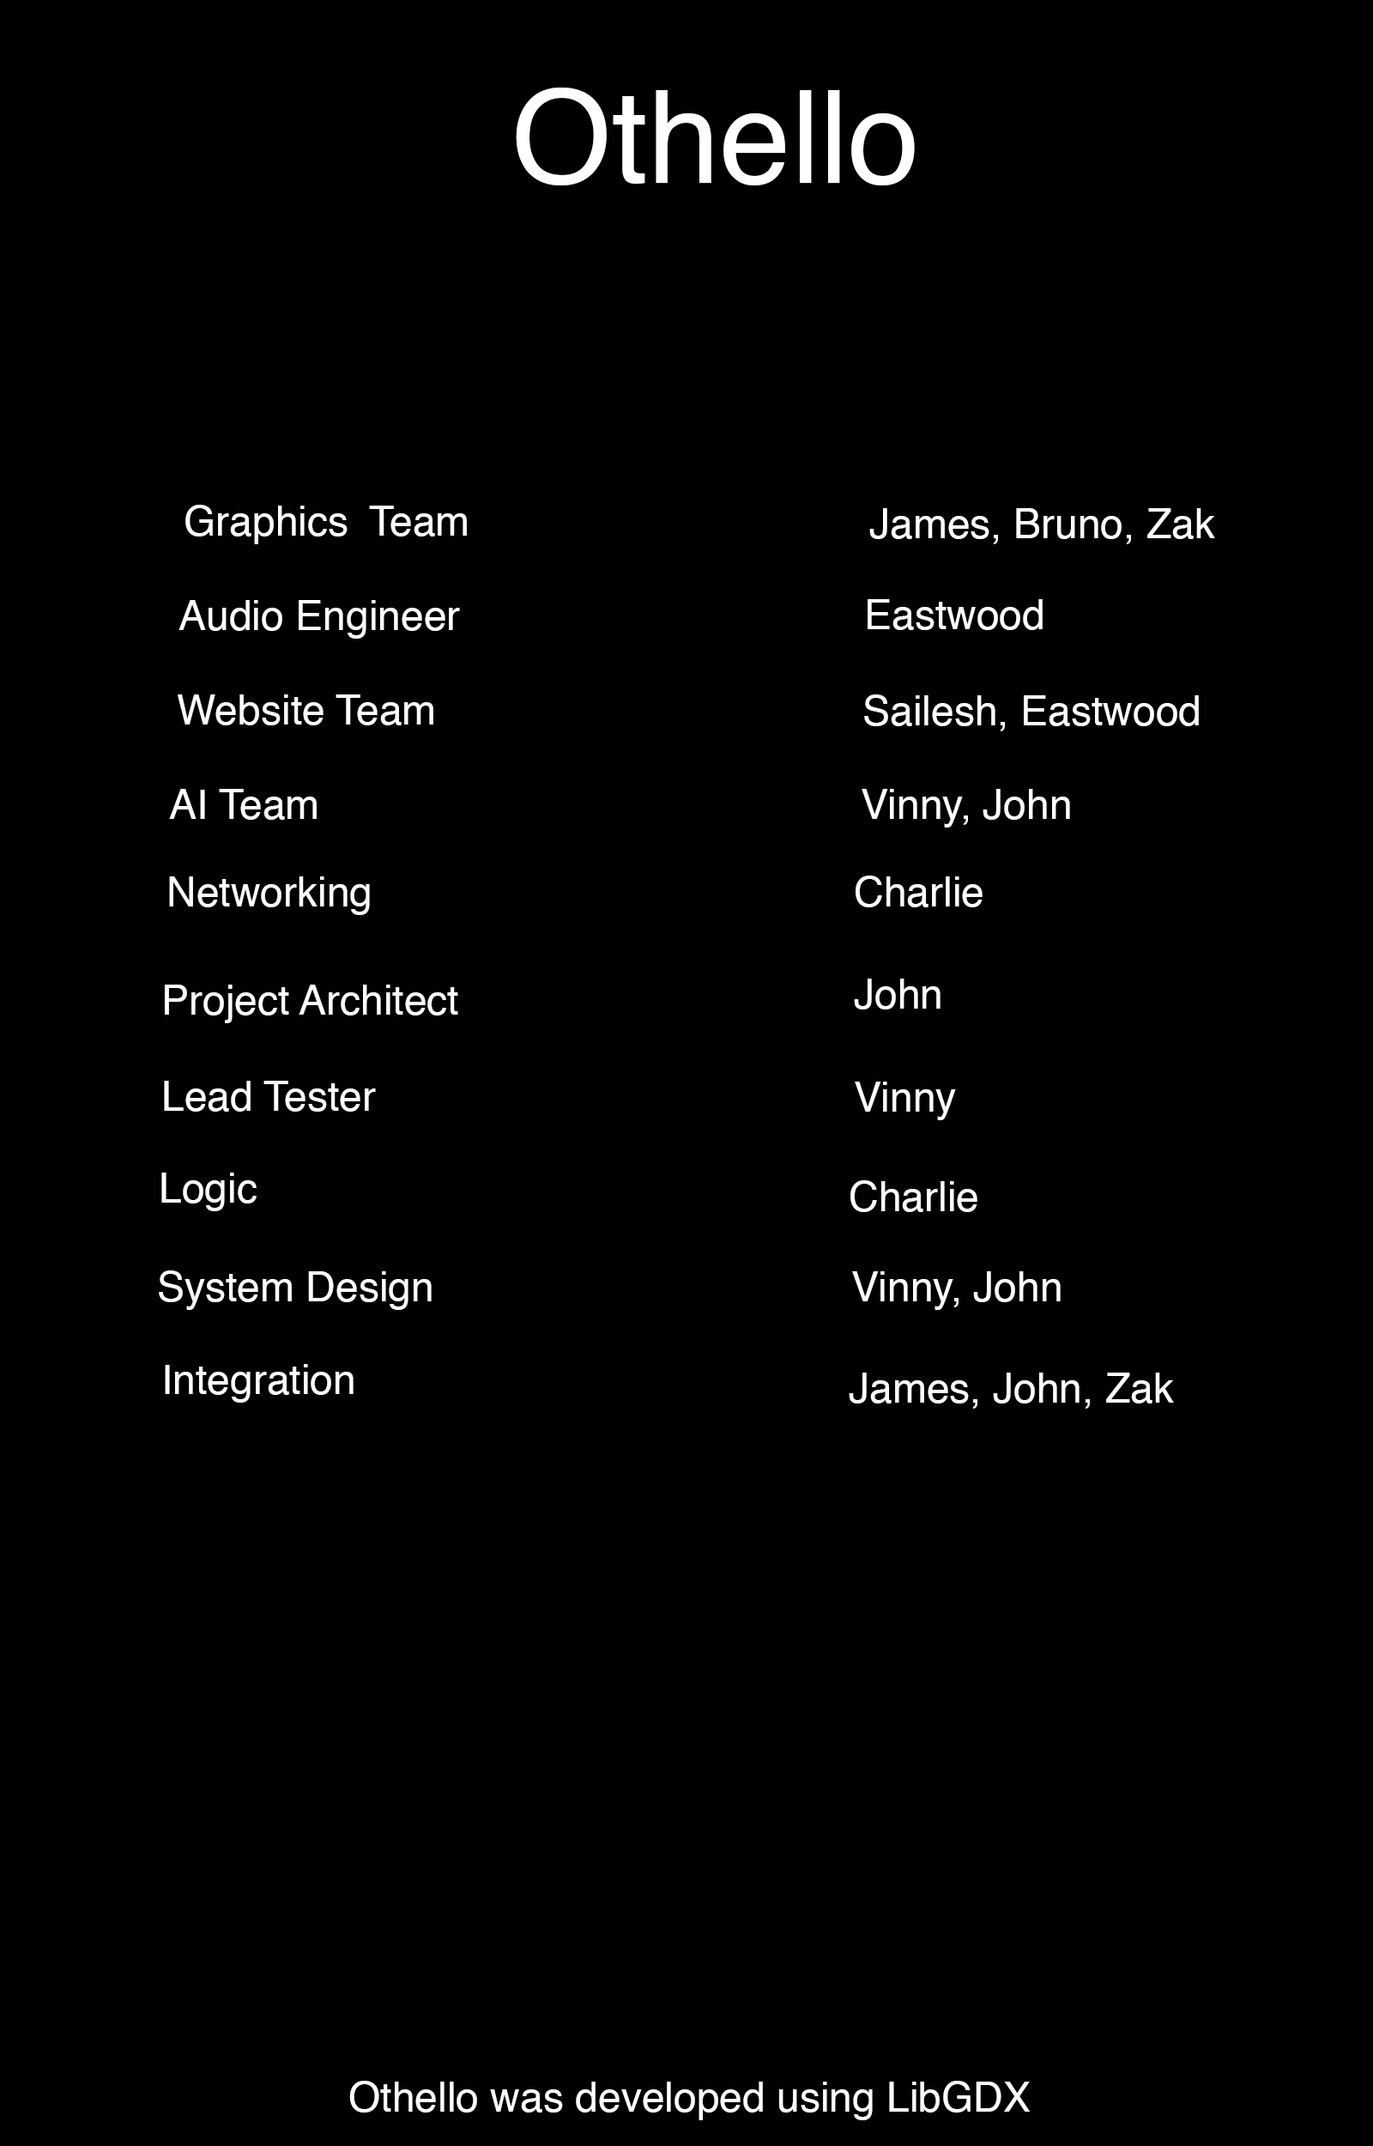
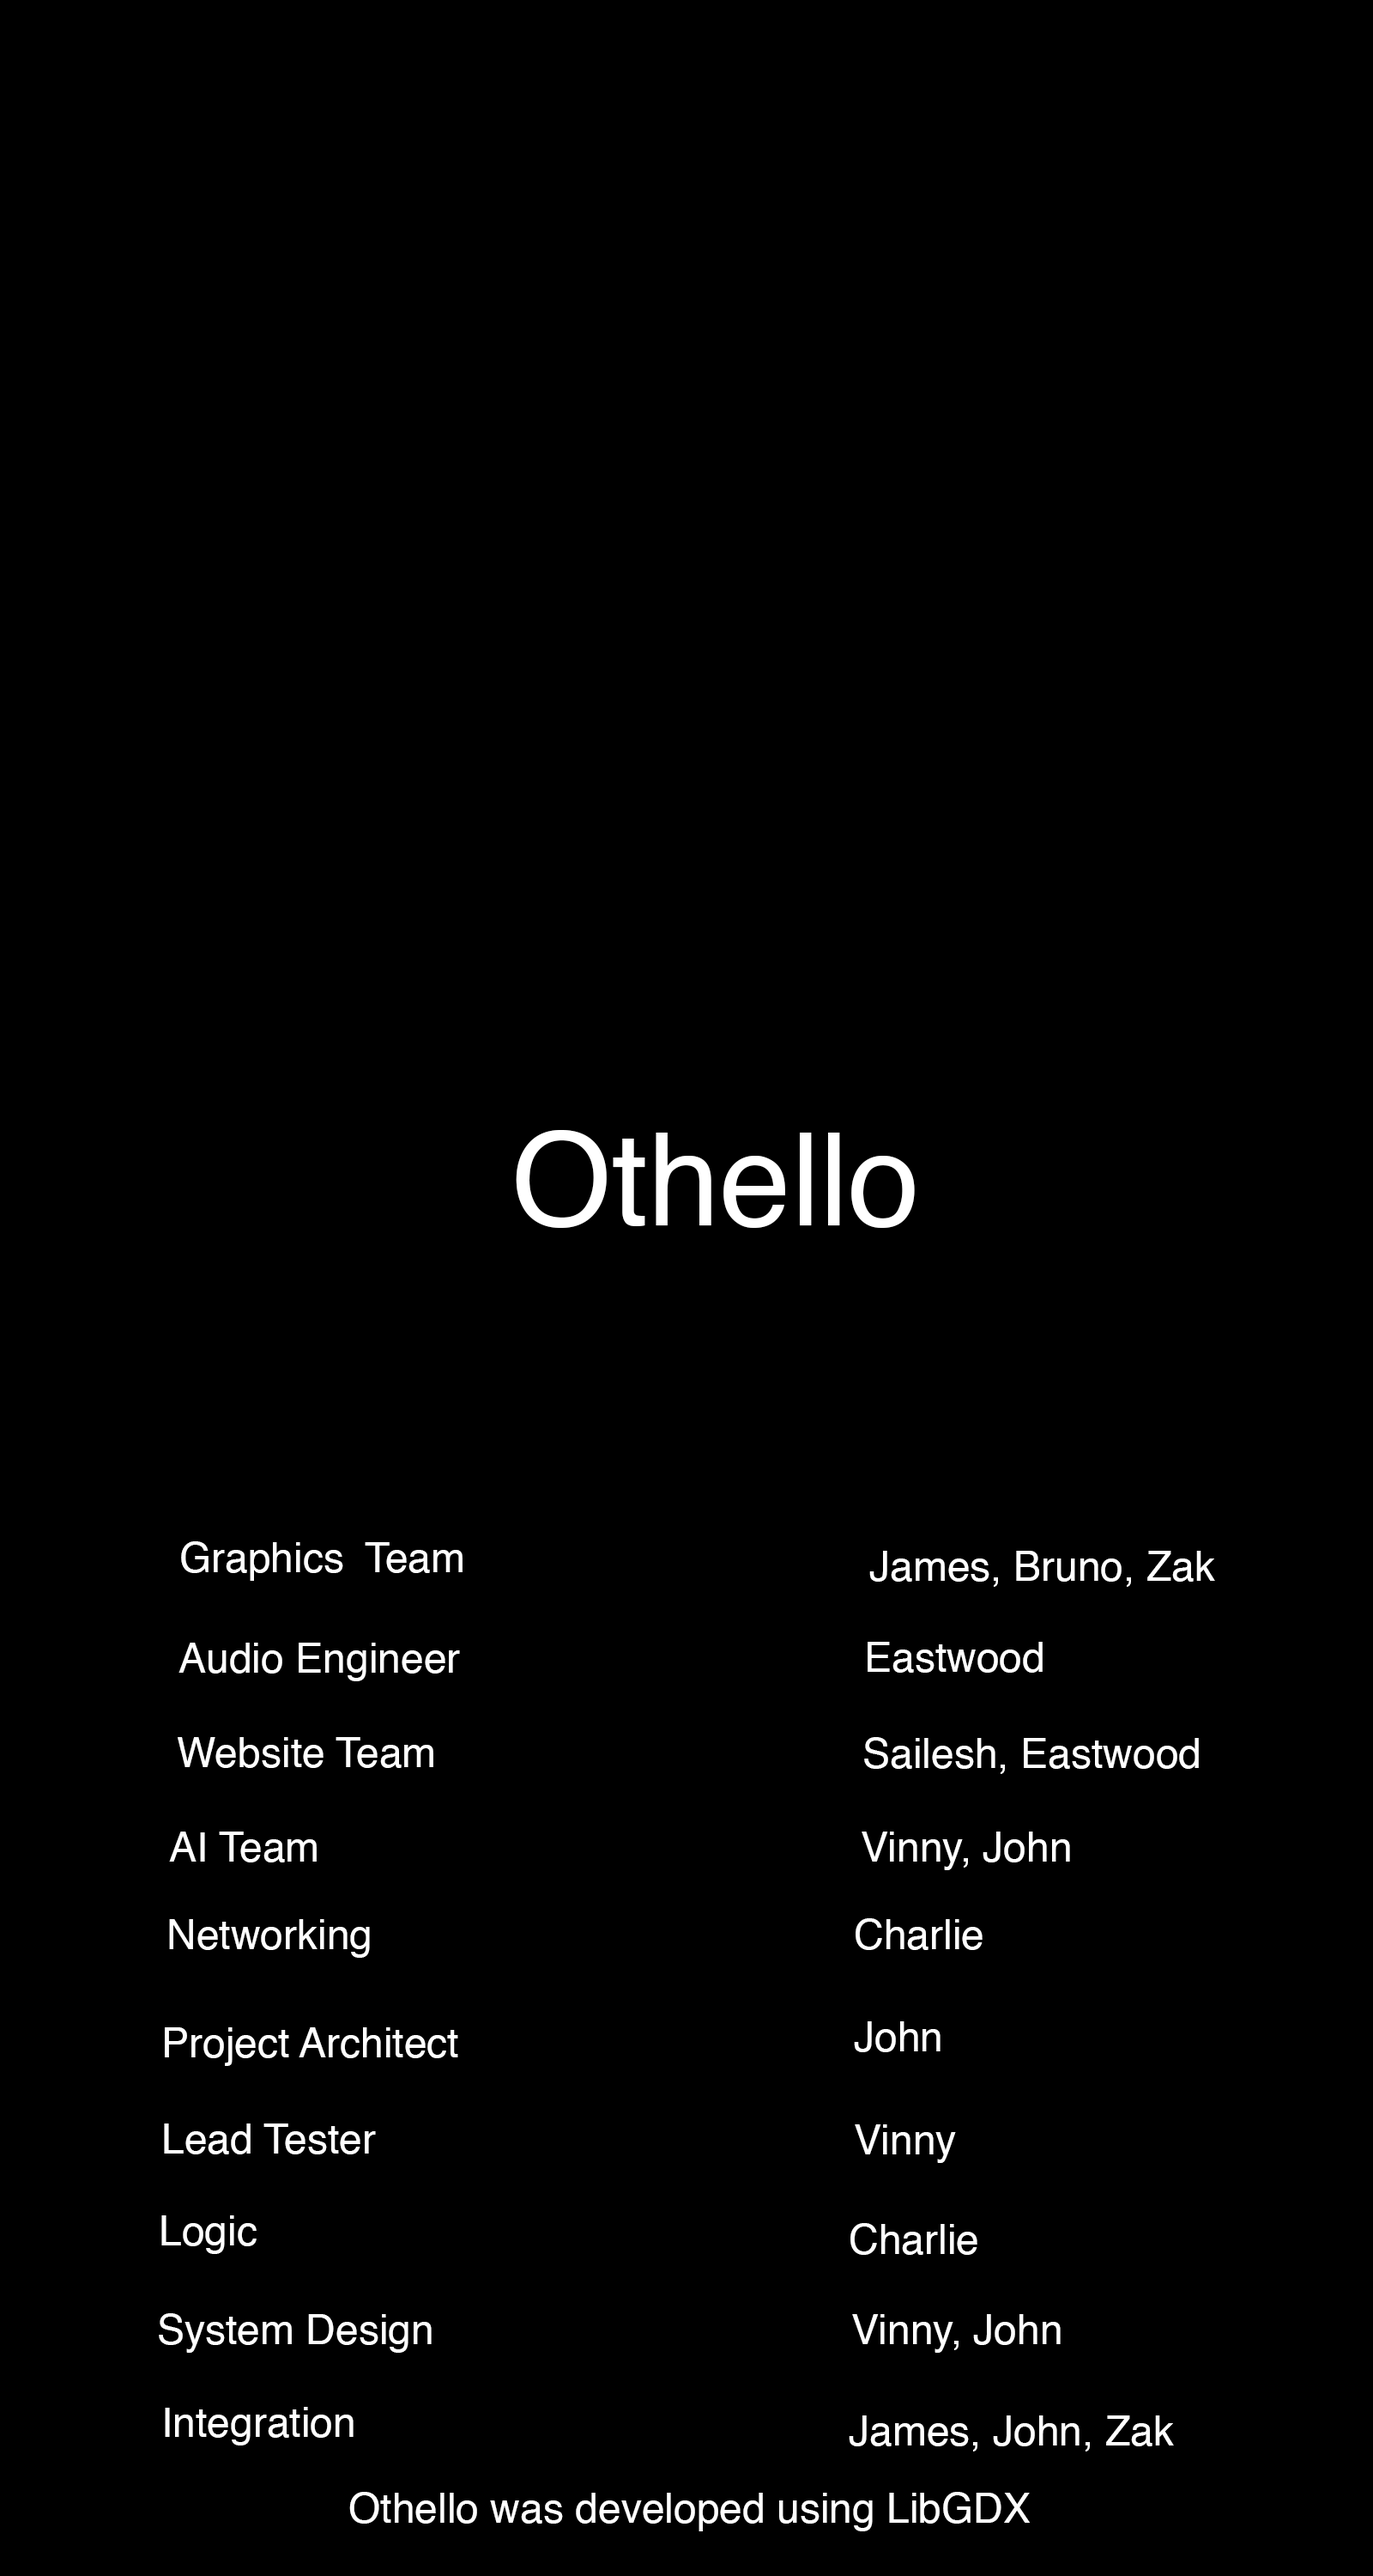
credits screen fixed

diff --git a/core/src/com/othellog4/screens/OptionScreen.java b/core/src/com/othellog4/screens/OptionScreen.java
@@ -7,6 +7,7 @@ import com.badlogic.gdx.graphics.Texture.TextureFilter;
 import com.badlogic.gdx.graphics.g2d.BitmapFont;
 import com.badlogic.gdx.graphics.g2d.freetype.FreeTypeFontGenerator;
 import com.badlogic.gdx.graphics.g2d.freetype.FreeTypeFontGenerator.FreeTypeFontParameter;
+import com.badlogic.gdx.graphics.glutils.ShapeRenderer.ShapeType;
 import com.badlogic.gdx.math.Vector2;
 import com.badlogic.gdx.utils.Align;
 import com.othellog4.Othello;
@@ -123,6 +124,10 @@ public class OptionScreen extends BaseScreen {
 		if (mousePos.x > 1420 && mousePos.x < 1580 && mousePos.y > 10
 				&& mousePos.y <48) {
 			if (Gdx.input.justTouched()) {
+				BaseScreen.SHAPE_RENDER.begin(ShapeType.Filled);
+				BaseScreen.SHAPE_RENDER.setColor(0f, 0f,0f, 1);
+				BaseScreen.SHAPE_RENDER.rect(0, 0, 1600, 900);
+				BaseScreen.SHAPE_RENDER.end();
 				this.dispose();
 				othello.switchCredits();
 			}

diff --git a/core/src/com/othellog4/screens/CreditScreen.java b/core/src/com/othellog4/screens/CreditScreen.java
@@ -27,7 +27,7 @@ public class CreditScreen extends BaseScreen {
 		background = new Texture("credits.png");
 		background.setFilter(TextureFilter.Linear, TextureFilter.Linear);
 
-		currentY = -2600;
+		currentY = -1600;
 		
 		//largeFont = GraphicsUtil.generateFont("fonts/overpass-bold.otf", 200, 0);
 
@@ -43,7 +43,7 @@ public class CreditScreen extends BaseScreen {
 
 		if (currentY <= 900) {
 
-			SPRITE_BATCH.draw(background, 0, currentY, 1600, 2500);
+			SPRITE_BATCH.draw(background, 0, currentY, 1600, 3000);
 
 		}
 
